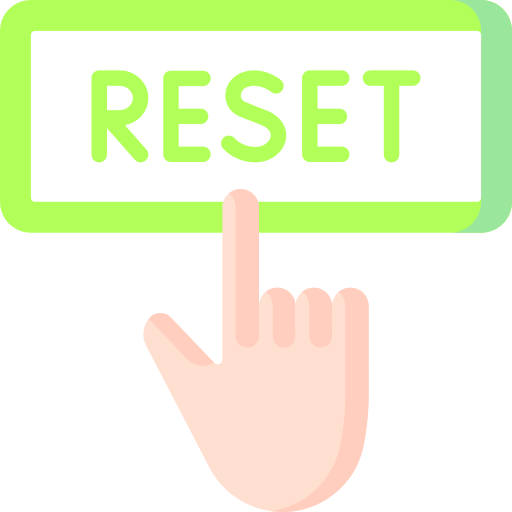
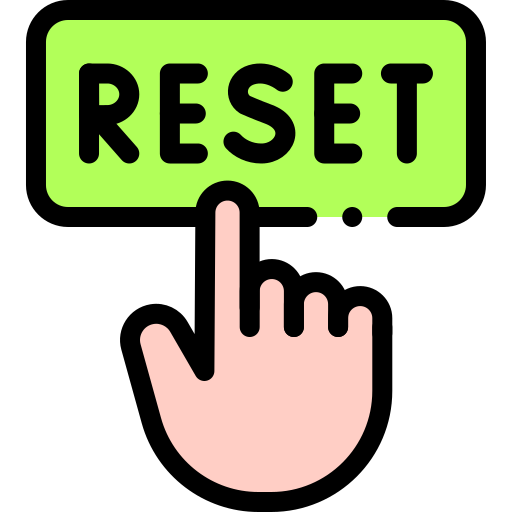
fixed buttons function and hover

diff --git a/script.js b/script.js
@@ -48,15 +48,15 @@ function init() {
   newGameButton.addEventListener("click", startNewGame); // Då man klickar på knappen starts spelet
   newTilesButton.addEventListener("click", getNewTiles); // Då man klickar på knappen slumpas fram fyra brickor
   resetButton.addEventListener("click", resetLocalStorage);
+
   newTilesButton.disabled = true; // Inaktiverar knappen för nya brickor
+  newTilesButton.classList.remove("hover");
 
   // Går igenom alla newTilesElements och lägger på händelsehanterare och funktioner
   for (let i = 0; i < newTilesElements.length; i++) {
     newTilesElements[i].addEventListener("dragstart", dragstartTile);
     newTilesElements[i].addEventListener("dragend", dragendTile);
   }
-
-  newTilesButton.classList.remove("hover");
 }
 window.addEventListener("load", init);
 
@@ -67,10 +67,17 @@ function startNewGame() {
   resetAll();
 
   tempTiles = tiles.slice(); // Gör en kopia av arrayen med brickor/nummer
+
   newGameButton.disabled = true; // Inaktiverar knappen för nytt spel
   newTilesButton.disabled = false; // Aktiverar knappen för nya brickor
+
+  newGameButton.classList.remove("hover");
+  newTilesButton.classList.add("hover");
 }
 
+// --------------------------------------------------
+
+// Resets all parameters
 function resetAll() {
   correctSeriesCount = 0; // Nollställer antalet rätta serier
 
@@ -95,8 +102,8 @@ function resetAll() {
   }
   newGameButton.disabled = false; // Aktiverar knappen för nytt spel
   newTilesButton.disabled = true; // Inaktiverar knappen för nya brickor
-  newGameButton.classList.remove("hover");
-  newTilesButton.classList.add("hover");
+  newGameButton.classList.add("hover");
+  newTilesButton.classList.remove("hover");
 }
 
 // --------------------------------------------------

diff --git a/index.html b/index.html
@@ -3,11 +3,12 @@
   <head>
     <meta charset="UTF-8" />
     <title>Game - Create Sequences</title>
-    <link
+    <!-- <link
       rel="shortcut icon"
       href="img/number-blocks.avif"
       type="image/x-icon"
-    />
+    /> -->
+    <link rel="shortcut icon" href="img/favicon.ico" type="image/x-icon">
     <link rel="stylesheet" type="text/css" href="css/style.css" />
     <script src="script.js"></script>
   </head>
@@ -16,7 +17,7 @@
     <header>
       <h1>Create Sequences</h1>
       <button id="resetBtn">
-        <img src="img/reset (2).png" alt="reset data" />
+        <img src="img/reset64.png" alt="reset data" />
       </button>
     </header>
     <main>

diff --git a/css/style.css b/css/style.css
@@ -102,12 +102,14 @@ main {
 
 #newGameBtn,
 #newTilesBtn {
+  width: 164px;
   background: var(--light-green-1);
   border-radius: 10px;
   font-size: 1.6rem;
   font-weight: 700;
   padding: 1rem;
   cursor: pointer;
+  transition: 0.5s;
 }
 
 #newTilesBtn {
@@ -115,7 +117,9 @@ main {
 }
 
 .hover:hover {
-  background-color: var(--light-green-2);
+  /* background-color: var(--light-green-2); */
+  transform: scale(105%);
+  transition: 0.5s;
 }
 
 /* Game area */
